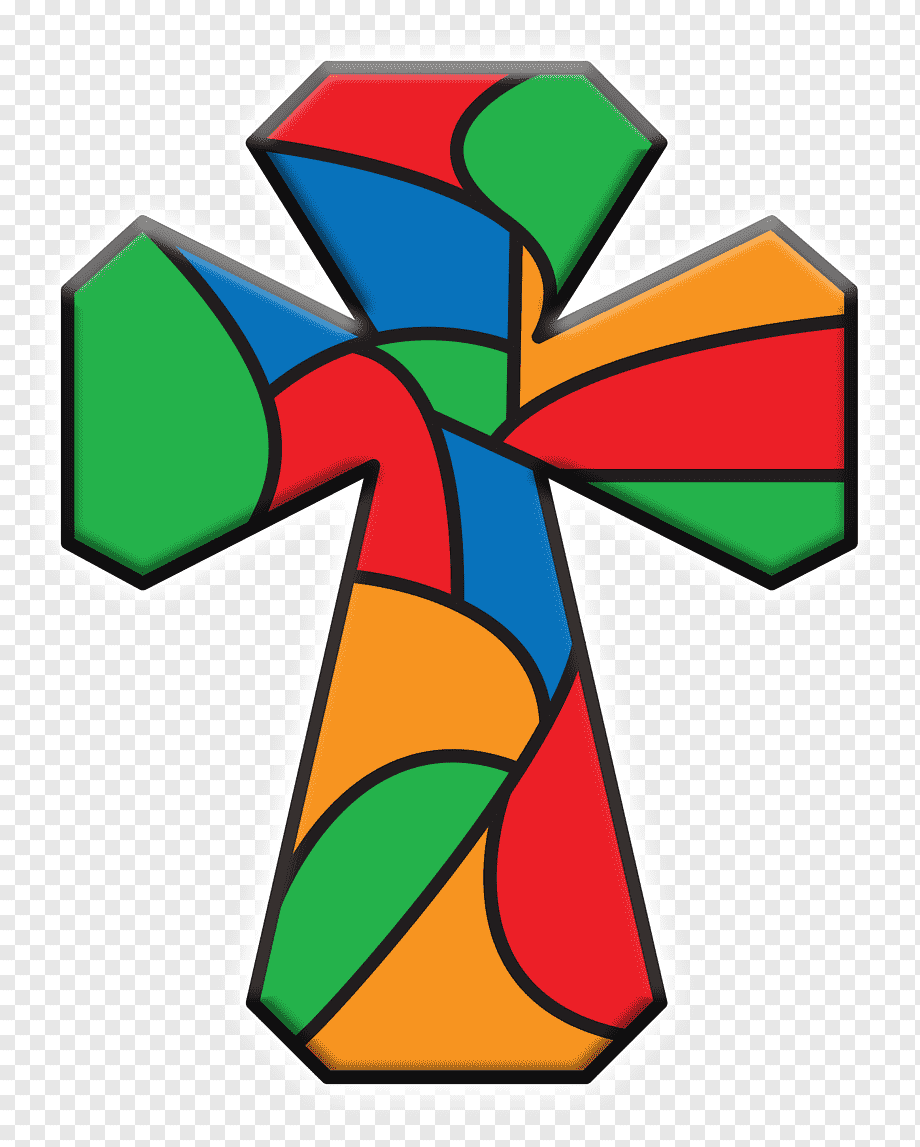
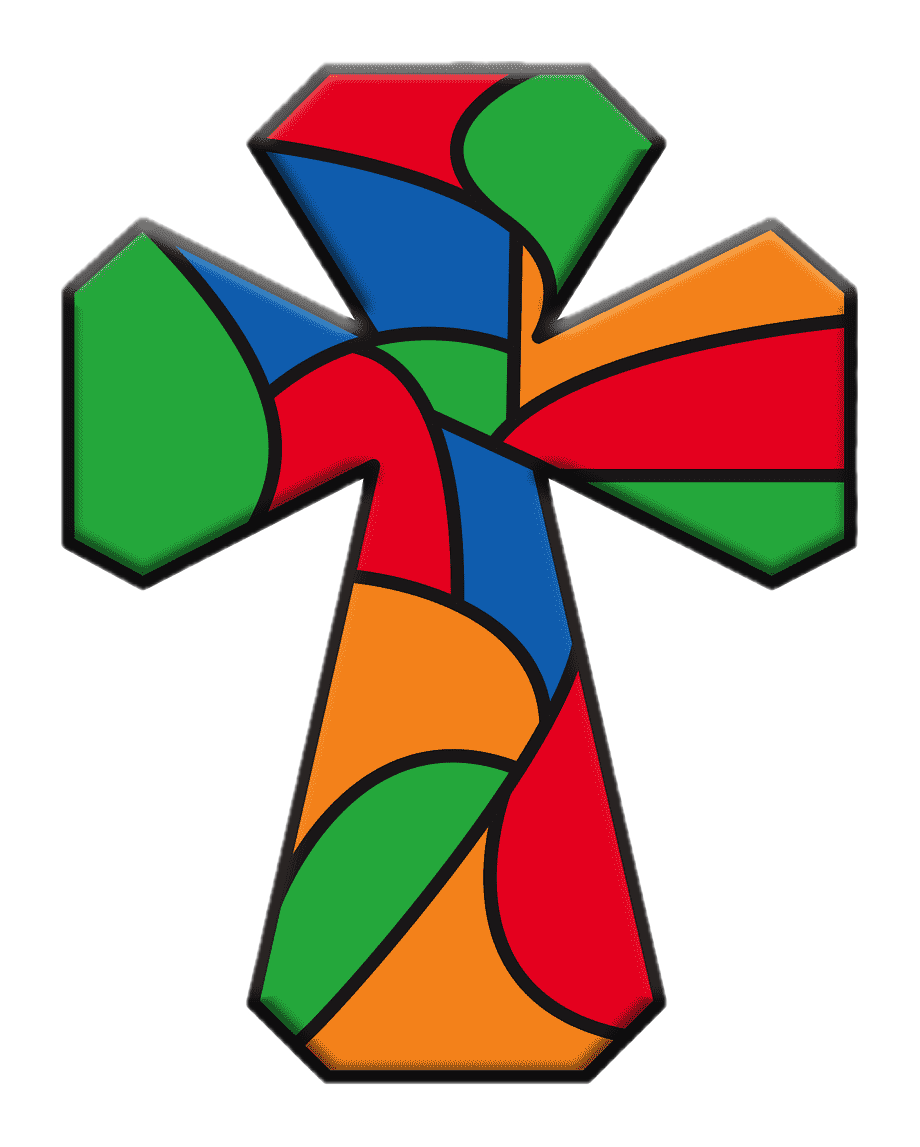
updating image

diff --git a/index.html b/index.html
@@ -61,6 +61,7 @@
         drop-shadow(0 0 24px rgba(255,255,255,.18))
         drop-shadow(0 0 48px rgba(0,163,255,.18))
         drop-shadow(0 0 64px rgba(46,164,79,.12));
+      image-rendering: -webkit-optimize-contrast;
     }
 
     .hero-brand{
@@ -139,7 +140,7 @@
   <!-- LEFT -->
   <section class="hero" aria-hidden="true">
     <div class="cross-wrap">
-      <!-- your image file placed next to index.html -->
+      <!-- Make sure cross.png has a transparent background -->
       <img src="cross.png" alt="Cross" class="cross" onerror="this.style.display='none'"/>
     </div>
     <div class="hero-brand">
